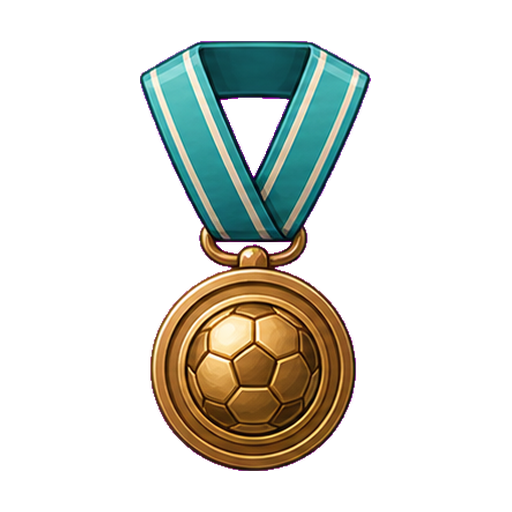
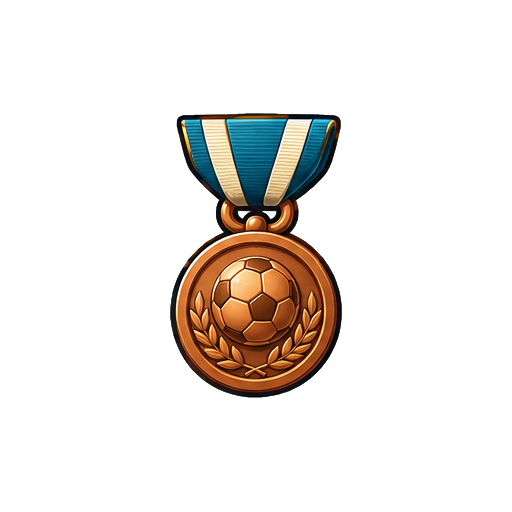
Add storybook item chains and HUD typeface

Changed region(s): [[0.25, 0.0625, 0.7188, 0.9375]]

diff --git a/js/game-data.js b/js/game-data.js
@@ -84,12 +84,12 @@ window.ChampionTour.GameData = Object.freeze({
       orderEligibleLevels: Object.freeze([1, 2, 3, 4, 5, 6]),
       assets: Object.freeze([
         null,
-        'assets/CozyAcademy/Full/Items/hydration_lv1.png',
-        'assets/CozyAcademy/Full/Items/hydration_lv2.png',
-        'assets/CozyAcademy/Full/Items/hydration_lv3.png',
-        'assets/CozyAcademy/Full/Items/hydration_lv4.png',
-        'assets/CozyAcademy/Full/Items/hydration_lv5.png',
-        'assets/CozyAcademy/Full/Items/hydration_lv6.png',
+        'assets/CozyAcademy/Full/Items/hydration_lv1.png?v=storybook-items-v2',
+        'assets/CozyAcademy/Full/Items/hydration_lv2.png?v=storybook-items-v2',
+        'assets/CozyAcademy/Full/Items/hydration_lv3.png?v=storybook-items-v2',
+        'assets/CozyAcademy/Full/Items/hydration_lv4.png?v=storybook-items-v2',
+        'assets/CozyAcademy/Full/Items/hydration_lv5.png?v=storybook-items-v2',
+        'assets/CozyAcademy/Full/Items/hydration_lv6.png?v=storybook-items-v2',
         'assets/CozyAcademy/Progression/Items/hydration_lv7.png',
         'assets/CozyAcademy/Progression/Items/hydration_lv8.png',
         'assets/CozyAcademy/Progression/Items/hydration_lv9.png',
@@ -114,13 +114,13 @@ window.ChampionTour.GameData = Object.freeze({
       orderEligibleLevels: Object.freeze([1, 2, 3, 4, 5, 6, 7]),
       assets: Object.freeze([
         null,
-        'assets/CozyAcademy/Pilot/Training/Items/training_lv1.png',
-        'assets/CozyAcademy/Pilot/Training/Items/training_lv2.png',
-        'assets/CozyAcademy/Pilot/Training/Items/training_lv3.png',
-        'assets/CozyAcademy/Pilot/Training/Items/training_lv4.png',
-        'assets/CozyAcademy/Pilot/Training/Items/training_lv5.png',
-        'assets/CozyAcademy/Pilot/Training/Items/training_lv6.png',
-        'assets/CozyAcademy/Progression/Items/training_lv7.png',
+        'assets/CozyAcademy/Pilot/Training/Items/training_lv1.png?v=storybook-items-v2',
+        'assets/CozyAcademy/Pilot/Training/Items/training_lv2.png?v=storybook-items-v2',
+        'assets/CozyAcademy/Pilot/Training/Items/training_lv3.png?v=storybook-items-v2',
+        'assets/CozyAcademy/Pilot/Training/Items/training_lv4.png?v=storybook-items-v2',
+        'assets/CozyAcademy/Pilot/Training/Items/training_lv5.png?v=storybook-items-v2',
+        'assets/CozyAcademy/Pilot/Training/Items/training_lv6.png?v=storybook-items-v2',
+        'assets/CozyAcademy/Progression/Items/training_lv7.png?v=storybook-items-v2',
         'assets/CozyAcademy/Progression/Items/training_lv8.png',
         'assets/CozyAcademy/Progression/Items/training_lv9.png',
         'assets/CozyAcademy/Progression/Items/training_lv10.png',
@@ -144,12 +144,12 @@ window.ChampionTour.GameData = Object.freeze({
       orderEligibleLevels: Object.freeze([1, 2, 3, 4, 5, 6]),
       assets: Object.freeze([
         null,
-        'assets/CozyAcademy/Full/Items/trophy_lv1.png',
-        'assets/CozyAcademy/Full/Items/trophy_lv2.png',
-        'assets/CozyAcademy/Full/Items/trophy_lv3.png',
-        'assets/CozyAcademy/Full/Items/trophy_lv4.png',
-        'assets/CozyAcademy/Full/Items/trophy_lv5.png',
-        'assets/CozyAcademy/Full/Items/trophy_lv6.png',
+        'assets/CozyAcademy/Full/Items/trophy_lv1.png?v=storybook-items-v2',
+        'assets/CozyAcademy/Full/Items/trophy_lv2.png?v=storybook-items-v2',
+        'assets/CozyAcademy/Full/Items/trophy_lv3.png?v=storybook-items-v2',
+        'assets/CozyAcademy/Full/Items/trophy_lv4.png?v=storybook-items-v2',
+        'assets/CozyAcademy/Full/Items/trophy_lv5.png?v=storybook-items-v2',
+        'assets/CozyAcademy/Full/Items/trophy_lv6.png?v=storybook-items-v2',
         'assets/CozyAcademy/Progression/Items/trophy_lv7.png',
         'assets/CozyAcademy/Progression/Items/trophy_lv8.png',
         'assets/CozyAcademy/Progression/Items/trophy_lv9.png',

diff --git a/tests/cozy-pilot-assets.test.js b/tests/cozy-pilot-assets.test.js
@@ -22,12 +22,12 @@ assert.equal(training.assets.length, 13);
 for (let level = 1; level <= 6; level += 1) {
   const asset = training.assets[level];
   assert.match(asset, /assets\/CozyAcademy\/Pilot\/Training\/Items\/training_lv[1-6]\.png/);
-  assert.equal(fs.existsSync(path.join(root, asset)), true, `missing ${asset}`);
+  assert.equal(fs.existsSync(path.join(root, asset.split('?')[0])), true, `missing ${asset}`);
 }
 for (let level = 7; level <= 12; level += 1) {
   const asset = training.assets[level];
   assert.match(asset, /assets\/CozyAcademy\/Progression\/Items\/training_lv(?:[7-9]|1[0-2])\.png/);
-  assert.equal(fs.existsSync(path.join(root, asset)), true, `missing ${asset}`);
+  assert.equal(fs.existsSync(path.join(root, asset.split('?')[0])), true, `missing ${asset}`);
 }
 
 const producer = data.producers.training_cart;

diff --git a/cozy-academy-production.css b/cozy-academy-production.css
@@ -1609,3 +1609,22 @@ h2 {
 .resource-gems .resource-copy {
   transform: translateX(-13px);
 }
+
+
+/* DynaPuff provides a visibly friendlier casual-game HUD face. */
+@font-face {
+  font-family: "DynaPuff HUD";
+  src: url("assets/fonts/dynapuff-latin-ext-600-normal.woff2") format("woff2");
+  font-weight: 600;
+  font-style: normal;
+  font-display: swap;
+}
+.level-ring #playerLevelValue,
+.player-level-card .level-copy strong,
+.game-header #energyValue,
+.game-header #coinValue,
+.game-header #gemValue {
+  font-family: "DynaPuff HUD", sans-serif;
+  font-weight: 600;
+  letter-spacing: .01em;
+}

diff --git a/index.html b/index.html
@@ -6,7 +6,7 @@
   <meta name="theme-color" content="#173f61">
   <title>Champion Tour — Futbol Birleştirme Prototipi</title>
   <link rel="stylesheet" href="style.css?v=cozy-reference-3">
-  <link rel="stylesheet" href="cozy-academy-production.css?v=cozy-reference-12">
+  <link rel="stylesheet" href="cozy-academy-production.css?v=cozy-reference-13">
 </head>
 <body>
   <div class="scene" aria-hidden="true">
